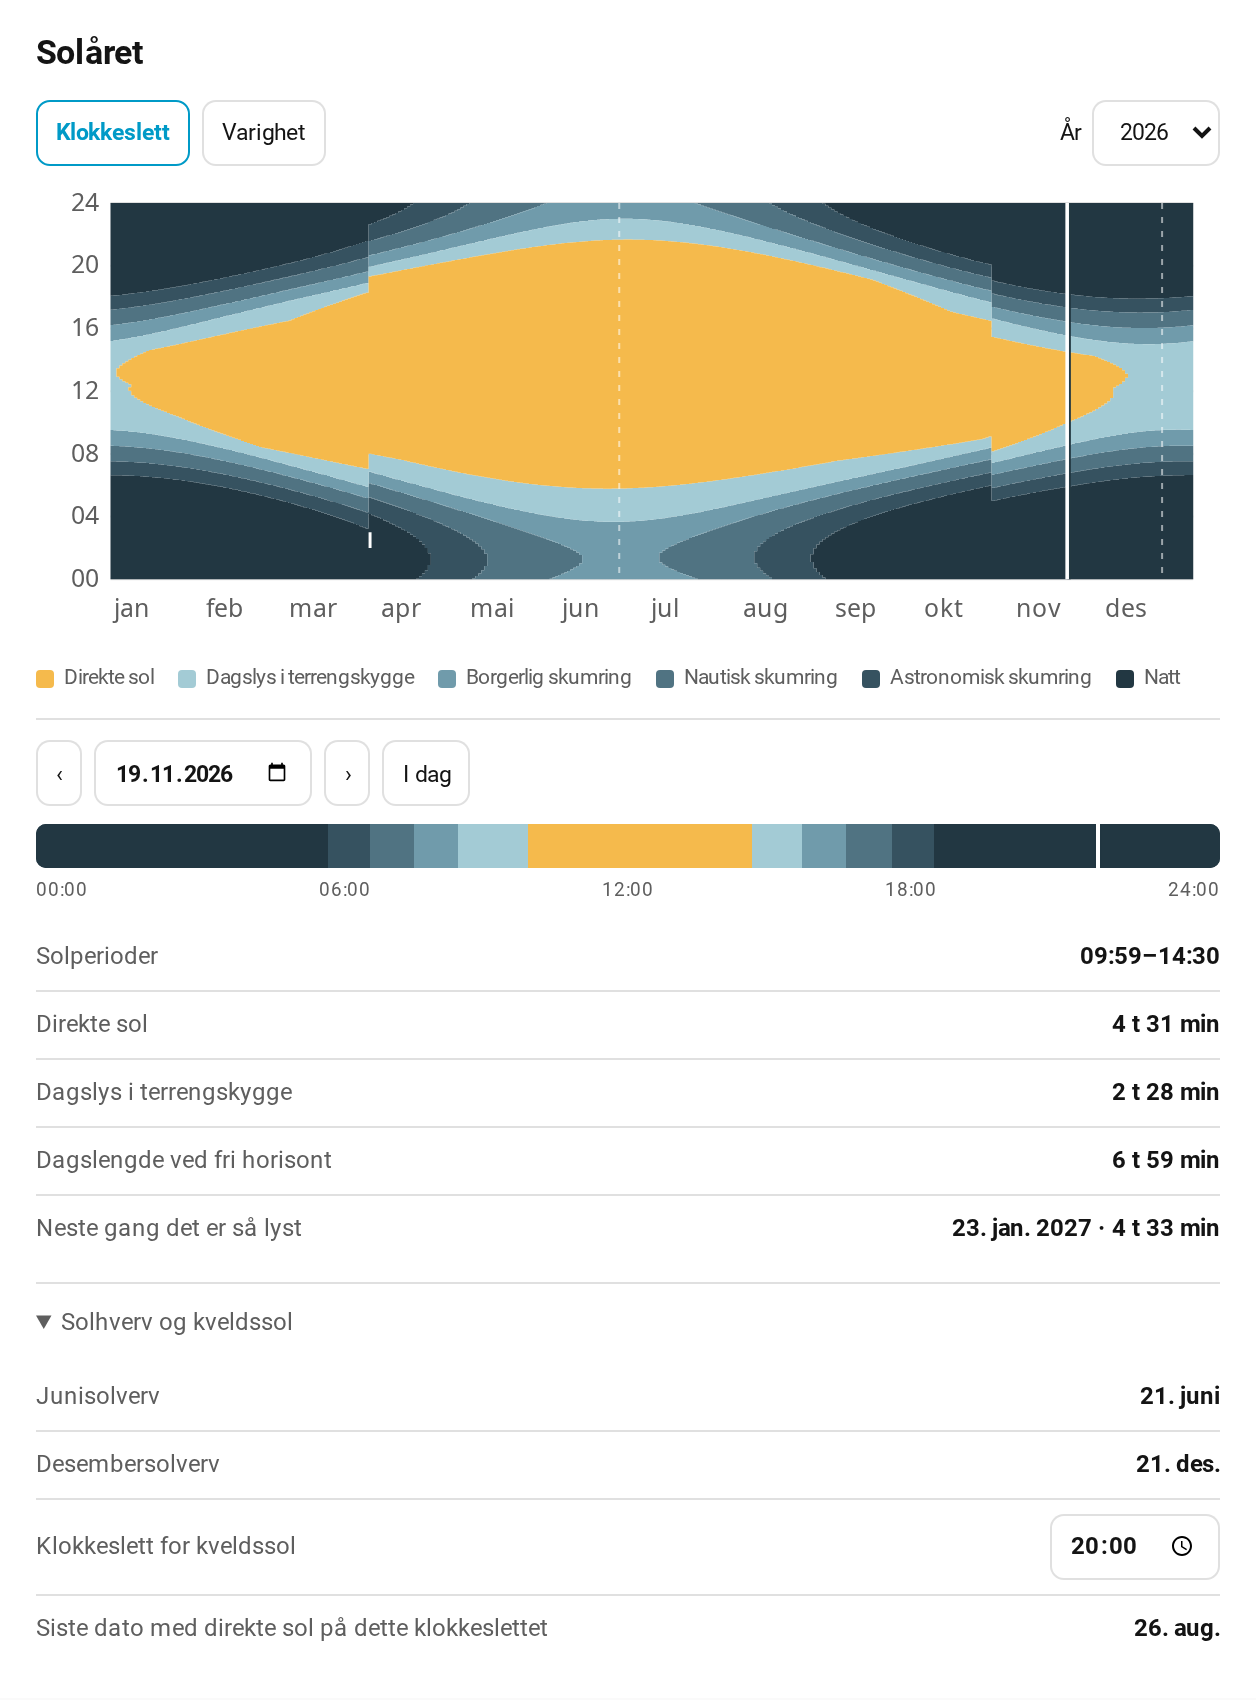
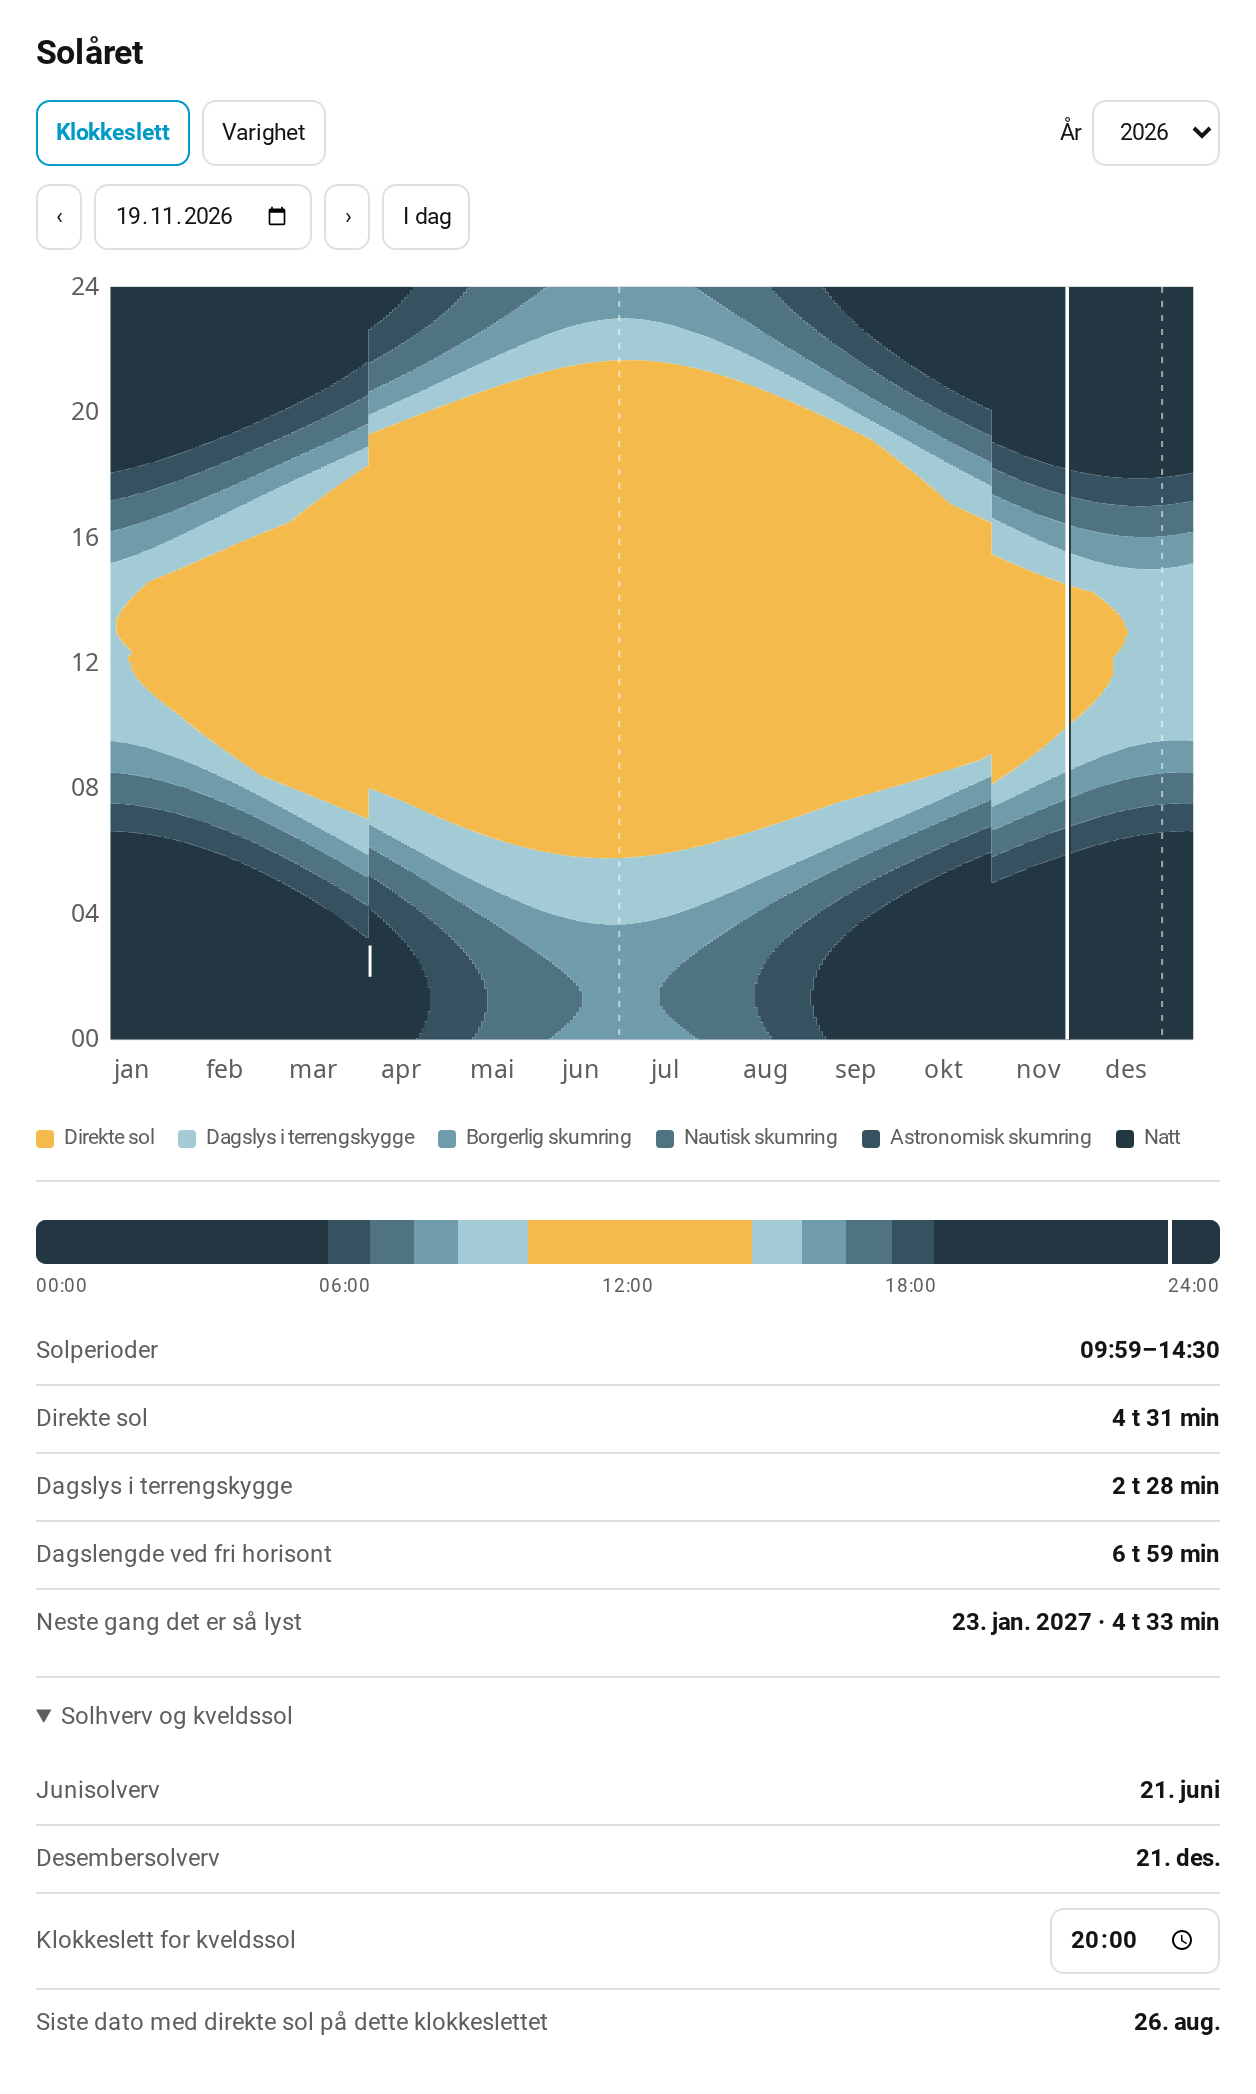
Make the horizon and solar year plots taller
Double the plotting area, put the date picker just above each plot, and update the README screenshots.

diff --git a/custom_components/terrain_sun/frontend/terrain-sun.js b/custom_components/terrain_sun/frontend/terrain-sun.js
@@ -77,9 +77,7 @@ const STYLES = /* css */ `
   .controls {display:flex;align-items:center;gap:6px;flex-wrap:wrap;font-size:.82rem;margin:0 0 9px}
   .controls .spacer {flex:1}
   .controls label {display:flex;align-items:center;gap:5px}
-  .year-plot, .horizon-plot {width:100%;display:block;overflow:visible}
-  .year-plot {aspect-ratio:620/242}
-  .horizon-plot {aspect-ratio:620/215}
+  .year-plot, .horizon-plot {width:100%;height:auto;display:block;overflow:visible}
   .axis {fill:var(--ts-muted);font:13px system-ui,sans-serif}
   .grid {stroke:var(--ts-line);stroke-width:1;vector-effect:non-scaling-stroke}
   .year-plot .hit {touch-action:pan-y;cursor:crosshair;fill:transparent}
@@ -334,7 +332,7 @@ function horizonElevation(profile, azimuth) {
 
 class HorizonCard extends LiveCard {
   get view() { return "horizon"; }
-  getCardSize() { return 5; }
+  getCardSize() { return 7; }
   selectedDate = null;
 
   async load() {
@@ -382,7 +380,7 @@ class HorizonCard extends LiveCard {
 
   chart() {
     const { day, profile, azimuth, upper_limb, direct, today } = this.data;
-    const left = 39, right = 606, top = 12, bottom = 183;
+    const left = 39, right = 606, top = 12, bottom = 354;
     const summit = day.path.reduce((best, item) => item[2] > best[2] ? item : best);
     const center = summit[1];
     const unwrap = angle => center + normalize(angle - center + 180) - 180;
@@ -431,7 +429,7 @@ class HorizonCard extends LiveCard {
     const now = full ? azimuth : unwrap(azimuth);
     const sunMarker = day.date === today && now >= start && now <= stop && upper_limb >= low
       ? `<circle cx="${f(x(now))}" cy="${f(y(upper_limb))}" r="5.7" fill="var(${direct ? "--ts-sun" : "--ts-nautical"})" stroke="#fff" stroke-width="1.3"/>` : "";
-    return `<svg class="horizon-plot" viewBox="0 0 620 215" role="img" aria-label="${this.l.profile} · ${this.l.sunPath}">
+    return `<svg class="horizon-plot" viewBox="0 0 620 ${bottom + 32}" role="img" aria-label="${this.l.profile} · ${this.l.sunPath}">
       <defs><clipPath id="horizon-clip"><rect x="${left}" y="${top}" width="${right - left}" height="${bottom - top}"/></clipPath></defs>
       ${grid.join("")}
       <g clip-path="url(#horizon-clip)">
@@ -454,8 +452,8 @@ class HorizonCard extends LiveCard {
     const live = day.date === today ? `<p class="status ${direct ? "sun" : ""}"><span></span>${direct ? this.l.sunNow : this.l.behind}</p>
       <dl>${row(this.l.bearing, degrees(azimuth))}${row(this.l.elevation, degrees(upper_limb))}${row(this.l.terrain, degrees(terrain))}</dl>` : "";
     return `<header><h2>${this.title}</h2><span class="date">${this.formatDate(day.date)}</span></header>
-      ${this.dateControls(this.selectedDate ?? today, `${currentYear - 5}-01-01`, `${currentYear + 5}-12-31`)}
       <div class="controls">${toggler("area", this.l.area, !this.full)}${toggler("circle", this.l.circle, !!this.full)}</div>
+      ${this.dateControls(this.selectedDate ?? today, `${currentYear - 5}-01-01`, `${currentYear + 5}-12-31`)}
       ${this.chart()}
       <div class="legend"><span><i class="tone-direct"></i>${this.l.direct}</span><span><i class="tone-nautical"></i>${this.l.profile}</span></div>
       <dl>${row(this.l.periods, periods)}</dl>
@@ -467,7 +465,7 @@ class YearCard extends SolarCard {
   mode = "clock";
   evening = "20:00";
   getGridOptions() { return { columns: 12, min_columns: 6, rows: "auto" }; }
-  getCardSize() { return 8; }
+  getCardSize() { return 10; }
 
   async load() {
     this.data = await request(this._hass, "year", this.year ? { year: this.year } : {});
@@ -543,7 +541,7 @@ class YearCard extends SolarCard {
 
   chart() {
     const { days } = this.data;
-    const left = 39, right = 606, top = 10, bottom = 207;
+    const left = 39, right = 606, top = 10, bottom = 404;
     const width = (right - left) / days.length;
     const max = this.mode === "duration"
       ? Math.max(86400, ...days.map(day => day.end - day.start)) : 86400;
@@ -583,7 +581,7 @@ class YearCard extends SolarCard {
       const label = new Intl.DateTimeFormat(this.lang === "no" ? "nb-NO" : "en-GB", {
         month: "short", timeZone: "UTC",
       }).format(new Date(day.date + "T12:00:00Z"));
-      months.push(`<text class="axis" x="${f(left + index * width + 2)}" y="227">${escape(label)}</text>`);
+      months.push(`<text class="axis" x="${f(left + index * width + 2)}" y="${bottom + 20}">${escape(label)}</text>`);
     });
     const solstices = this.data.solstices.map(event => {
       const index = days.findIndex(day => day.date === event.date);
@@ -591,7 +589,7 @@ class YearCard extends SolarCard {
       return `<path class="solstice" d="M${mark},${top}V${bottom}"/>`;
     });
     const cursor = f(left + (this.index + .5) * width);
-    return `<svg class="year-plot" viewBox="0 0 620 242" aria-label="${this.l.graph}">
+    return `<svg class="year-plot" viewBox="0 0 620 ${bottom + 35}" aria-label="${this.l.graph}">
       ${grids.join("")}
       ${legendOrder.slice().reverse().map(key => `<path class="tone-${key}" d="${paths[key].join("")}"/>`).join("")}
       ${solstices.join("")}
@@ -618,10 +616,10 @@ class YearCard extends SolarCard {
         ${toggler("duration", this.l.duration, this.mode === "duration")}
         <span class="spacer"></span><label>${this.l.year} <select data-field="year">${yearOptions}</select></label>
       </div>
+      ${this.dateControls(day.date, days[0].date, days.at(-1).date, currentYear === this.year)}
       ${this.chart()}
       ${this.legend()}
       <div class="day">
-        ${this.dateControls(day.date, days[0].date, days.at(-1).date, currentYear === this.year)}
         ${this.timeline(day, this.zone, Date.now() / 1000)}
         <dl>
           ${row(this.l.periods, day.direct.length ? this.formatPeriods(day.direct, day, this.zone) : this.l.noSun)}
